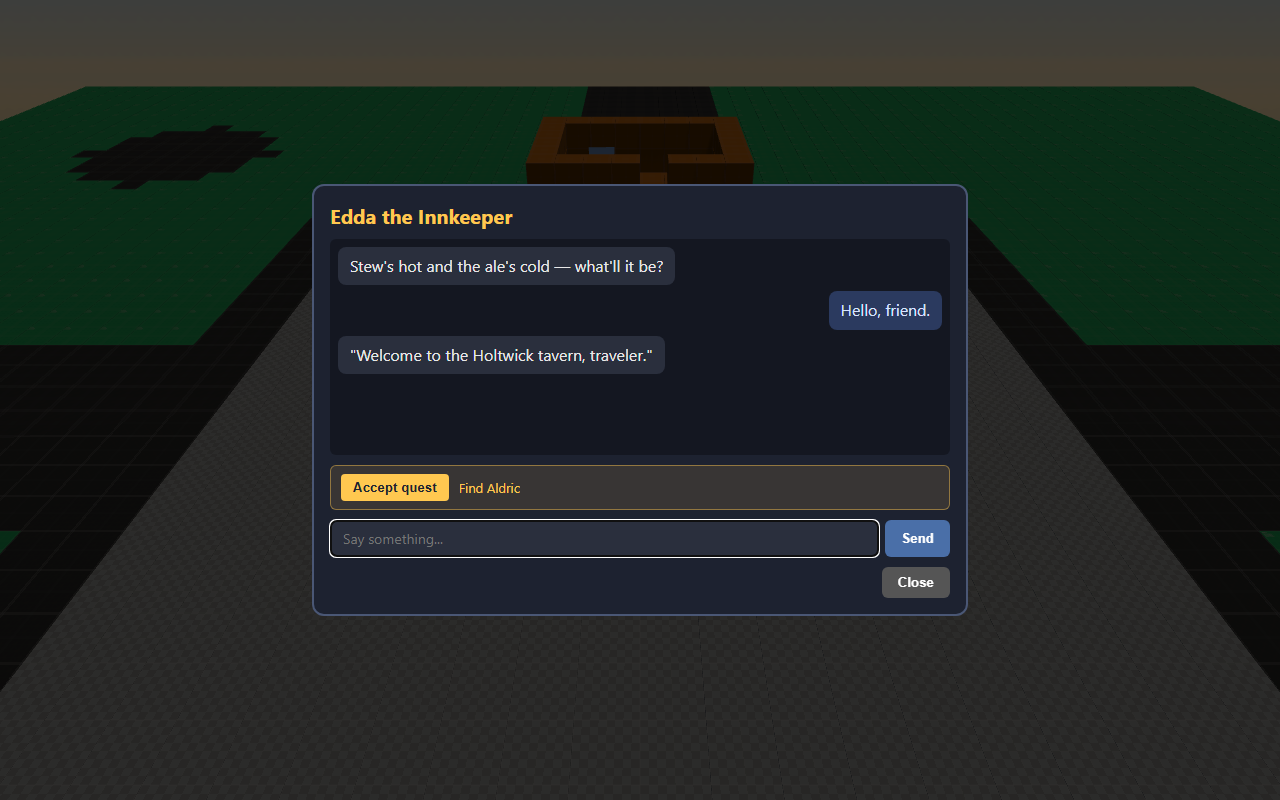
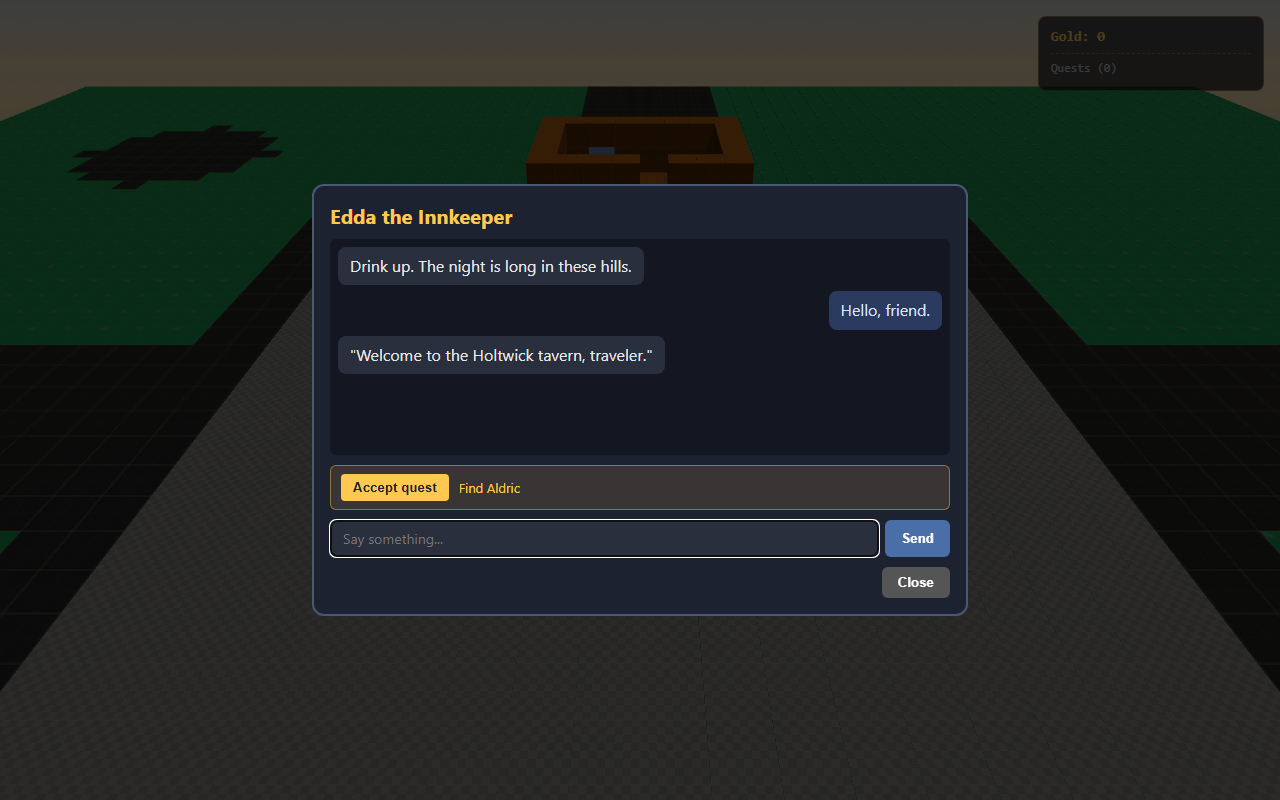
ralph(iter 24): P6.2 quest log HUD + gold counter
`src/ui/hud.ts` `mountHud()` renders a fixed top-right panel (gold purse +
quest log) and subscribes to the quest store so transitions re-render
without polling. Quests with status `not_started` stay hidden — the log
only surfaces accepted + completed work. `index.html` adds `#hud` +
status-tinted styling; `main.ts` mounts it after `bindTitle()`.
`validate-visual.mjs` extends the P6.1 assertion: after the
Edda→accept→Aldric→complete flow, the HUD must read `Gold: 10` +
`Quests (1)` + a `[done] Find Aldric` row.

All 3 gates green (build, validate:visual, test:dialog).

Changed region(s): [[0.8125, 0.0, 1.0, 0.125], [0.2812, 0.3125, 0.5312, 0.375]]

diff --git a/index.html b/index.html
@@ -267,6 +267,46 @@
         font-family: ui-monospace, "SF Mono", Menlo, monospace;
       }
       #title-credit a { color: inherit; text-decoration: underline; }
+
+      /* HUD — always-visible status panel (gold + quest log) */
+      #hud {
+        position: fixed;
+        top: 16px;
+        right: 16px;
+        width: 200px;
+        padding: 10px 12px;
+        background: rgba(15, 18, 26, 0.85);
+        border: 1px solid rgba(255, 200, 80, 0.35);
+        border-radius: 8px;
+        color: #e8e8e8;
+        font-size: 13px;
+        line-height: 1.4;
+        font-family: ui-monospace, "SF Mono", Menlo, monospace;
+        pointer-events: none;
+        opacity: 0.85;
+        z-index: 5;
+      }
+      #hud-gold {
+        color: #ffc850;
+        font-weight: 700;
+        font-size: 14px;
+      }
+      #hud-divider {
+        border: 0;
+        border-top: 1px dashed rgba(255, 255, 255, 0.25);
+        margin: 6px 0;
+      }
+      #hud-quest-count {
+        color: #b8c0d4;
+        font-size: 12px;
+        margin-bottom: 4px;
+      }
+      .hud-quest {
+        font-size: 12px;
+        color: #d8e4ff;
+      }
+      .hud-quest-complete { color: #8fd47a; }
+      .hud-quest-in_progress { color: #ffd88a; }
     </style>
   </head>
   <body>
@@ -288,6 +328,13 @@
     <div id="joystick"><div id="joystick-knob"></div></div>
     <button id="interact-btn" disabled>TALK</button>
     <div id="hint"></div>
+
+    <div id="hud">
+      <div id="hud-gold">Gold: 0</div>
+      <hr id="hud-divider" />
+      <div id="hud-quest-count">Quests (0)</div>
+      <div id="hud-quest-list"></div>
+    </div>
 
     <div id="dialog-backdrop" role="dialog" aria-modal="true">
       <div id="dialog">

diff --git a/src/ui/hud.ts b/src/ui/hud.ts
@@ -1,0 +1,43 @@
+// Always-visible HUD: gold purse + quest log. Subscribes to the quest store
+// so gold + quest state changes re-render the DOM without polling. Inventory
+// row is added by P6.3 once the inventory state lands.
+
+import { getGold, getQuests, subscribeQuests } from "../game/quests";
+import type { QuestStatus } from "../data/quest.schema";
+
+function $(id: string): HTMLElement {
+  const el = document.getElementById(id);
+  if (!el) throw new Error(`hud: missing #${id}`);
+  return el;
+}
+
+const STATUS_PREFIX: Record<QuestStatus, string> = {
+  not_started: "[new]",
+  in_progress: "[active]",
+  complete: "[done]",
+};
+
+export function mountHud(): void {
+  render();
+  subscribeQuests(render);
+}
+
+function render(): void {
+  const gold = getGold();
+  const all = getQuests();
+  // Hide quests the player has never accepted — keeps the log focused on
+  // active + completed work, matching the spec layout.
+  const visible = all.filter((q) => q.state.status !== "not_started");
+
+  $("hud-gold").textContent = `Gold: ${gold}`;
+  $("hud-quest-count").textContent = `Quests (${visible.length})`;
+
+  const list = $("hud-quest-list");
+  list.innerHTML = "";
+  for (const { def, state } of visible) {
+    const row = document.createElement("div");
+    row.className = `hud-quest hud-quest-${state.status}`;
+    row.textContent = `${STATUS_PREFIX[state.status]} ${def.title}`;
+    list.appendChild(row);
+  }
+}

diff --git a/src/main.ts b/src/main.ts
@@ -11,9 +11,11 @@ import { NPC_SPAWNS } from "./data/npcSpawns";
 import type { NpcDef } from "./data/npc.schema";
 import { DayNight } from "./world/dayNight";
 import { bindTitle } from "./ui/title";
+import { mountHud } from "./ui/hud";
 import { acceptQuest, getGold, getQuestState, getQuests } from "./game/quests";
 
 bindTitle();
+mountHud();
 
 const { scene, camera, renderer, sun, hemi } = bootstrapScene("#game");
 const dayNight = new DayNight(sun, hemi);

diff --git a/NOTES.md b/NOTES.md
@@ -45,4 +45,5 @@ iter 18 | done | P2.4 procedural village floor — `world/village.ts` `buildVill
 iter 20 | done-script-blocked-batch | P3.1 sprite generator `tools/genSprites.mjs` (Node ESM) + `npm run gen:sprites`: reads `src/data/npcs/*.json` directly (bypasses Vite-only `npcs.ts` import.meta.glob loader), builds a fantasy-RPG anchor prompt + name/role/bark-keyword visual descriptors per NPC, calls PixelLab `/create-character-with-4-directions` (one POST → 4 dir PNGs), writes `public/sprites/<id>_{south,west,north,east}.png`, skip-if-exists default, --only/--max/--force/--sleep/--dry-run flags. Auth resolution: PIXELLAB_API_KEY → PIXELLAB_TOKEN → ~/.pixellab-token (legacy). Smoke-tested twice: first call returned HTTP 422 telling us `/create-character-with-4-directions` rejects `negative_description` + `no_background` (stripped to the minimal `{description, image_size}` body that the legacy `02-fp` gen.py validates); second call hit HTTP 402 "Insufficient resources. Generations remaining: 0, Credits: 0.0" → blocked on PixelLab credit top-up, not code. Build green 475.57 kB, visual gate iter-20.png unchanged from iter 19 (top-bin 15.96% / 320 bins). Follow-up: P3.1b (run-once + commit PNGs) added to plan, blocked on credits.
 iter 22 | done | P4.2 WebLLM streaming wired into dialog (lazy-load on Send, `isWebGpuUsable()` precheck + scripted-bark fallback, Edda persona via new `tavernCast.ts`, Playwright-asserted via `?test=1` window hook + `iter-${ITER}-dialog.png` capture)
 iter 23 | done | P6.1 quest schema + first quest (Edda→Aldric→10 gold): `data/quest.schema.ts` types + `data/quests.ts` corpus (helpers `questById`, `questsGivenBy`) + `game/quests.ts` state machine (in-memory map, gold purse, subscribe/emit, `acceptQuest`/`completeQuest`/`onTalkTo`); `ui/dialog.ts` openDialog calls `onTalkTo(npc.id)` to auto-complete `talk_to` quests targeting this NPC + appends `[Quest complete: … +N gold]` lines and renders accept-quest row when this NPC has a `not_started` quest; `index.html` adds `#dialog-quest-row` between chat-messages and input-row with warm-amber styling; `main.ts` `__voxelTest__` extended with `openDialog(npcId?)`, `acceptQuest`, `getQuestState`, `getQuests`, `getGold` (no-arg `openDialog()` still defaults to NPC[0] = Edda so validate-visual + test-dialog stay backward compatible). validate-visual asserts Edda→accept→Aldric→complete + 10 gold and captures iter-${ITER}-quest.png. `npcSpawns.ts` deliberately untouched — quest associations derive from `QuestDef.giver_npc_id`. HUD/toast deferred to P6.2 (in-chat confirmation line carries the iter). All 3 gates green (build 489.19 kB, visual top-bin 20.90% / 340 bins, test:dialog all checks pass).
+iter 24 | done | P6.2 HUD — `src/ui/hud.ts` `mountHud()` renders gold + quest log into a top-right 200px panel (opacity 0.85, pointer-events: none, monospace, dashed divider, status-tinted rows) and subscribes to `subscribeQuests` so transitions re-render without polling. Quests filtered to `status !== "not_started"` so the log only surfaces accepted/completed work. `index.html` adds `#hud` + CSS; `main.ts` calls `mountHud()` after `bindTitle()`. `validate-visual.mjs` post-quest assertion: visible HUD AND `Gold: 10` AND `Quests (1)` AND a `[done] Find Aldric` row. Inventory row deferred to P6.3. All 3 gates green (build 489.84 kB main, visual top-bin 18.64% / 347 bins, test:dialog all checks pass).
 iter 19 | done | P2.5 tavern building — new `world/tavern.ts` `addTavern(grid, {originX, originZ, doorwayX})` stamps 8×6 outer footprint (6×4 interior) of `VOXEL_PLANKS` floor at y=0 + 2-tall plank wall ring at y=1..2 with a 1-cell doorway gap in the south wall. `village.ts`: `VILLAGE_HEIGHT = 1 + TAVERN_WALL_HEIGHT = 3`; constructor no longer fills the whole volume with `VOXEL_FLOOR` (upper layers must stay empty), explicit y=0 ground fill instead; tavern stamped last at (originX=28, originZ=14, doorwayX=32) so the north dirt road becomes a plank threshold into the door. `player.ts` collision widened: any non-empty voxel at y≥1 in the footprint blocks (legacy `VOXEL_WALL` at y=0 kept for back-compat) — player slides along walls and walks through the doorway. Visual gate iter-19.png shows the orange tavern north of the plaza with a visible doorway gap, top-bin 15.96% / 320 bins (+104 vs iter 18 from plank surfaces), no console errors. Build green 475.57 kB.

diff --git a/IMPLEMENTATION_PLAN.md b/IMPLEMENTATION_PLAN.md
@@ -123,20 +123,22 @@ the priority order.
   hook, clicks the accept button, then opens Aldric's dialog and asserts
   the quest log shows 1 complete entry + gold counter shows 10.
 
-- [ ] **P6.2** Quest log HUD + gold counter. Files: `src/ui/hud.ts` (new),
-  `index.html` add `<div id="hud">` in top-right (200px wide, opacity 0.85,
-  pointer-events: none), CSS in index.html `<style>`. HUD subscribes to
-  quest + gold + inventory state and re-renders on change. Layout:
-
-  ```
-  Gold: 10
-  ----------------
-  Quests (1)
-  [done] Find Aldric
-  ```
-
-  **Done when:** HUD always visible; after P6.1's Playwright flow, HUD
-  shows the gold count + the quest's title with `[done]` prefix.
+- [x] ~~**P6.2** Quest log HUD + gold counter.~~ (iter 24 — `src/ui/hud.ts`
+  `mountHud()` renders `#hud-gold`, `#hud-quest-count`, `#hud-quest-list`
+  and subscribes to `subscribeQuests` so gold + quest transitions re-render
+  without polling. `index.html` adds `#hud` (top-right, 200px, opacity 0.85,
+  pointer-events: none, z-index 5, monospace, dashed divider, status-tinted
+  rows — green `[done]`, amber `[active]`). Quests stay hidden from the log
+  until accepted (`not_started` filtered) so the panel reads "Quests (0)"
+  until the player engages. `main.ts` calls `mountHud()` after `bindTitle()`.
+  Inventory row is intentionally absent here — wires in with P6.3 when the
+  inventory state lands. `validate-visual.mjs` extended: after the P6.1
+  Edda→Aldric flow, asserts `#hud` is visible AND `#hud-gold === "Gold: 10"`
+  AND `#hud-quest-count === "Quests (1)"` AND the single row starts with
+  `[done] ` and contains `Find Aldric`. All three gates green (`build`
+  489.84 kB, `validate:visual` top-bin 18.64% / 347 bins, `test:dialog`
+  all checks pass). iter-24-quest.png captures the HUD in the corner with
+  the completed quest.)
 
 - [ ] **P6.3** Item schema + 3 item types + world spawn + pickup. Files:
   `src/data/item.schema.ts` (new), `src/data/items.ts` (new),
